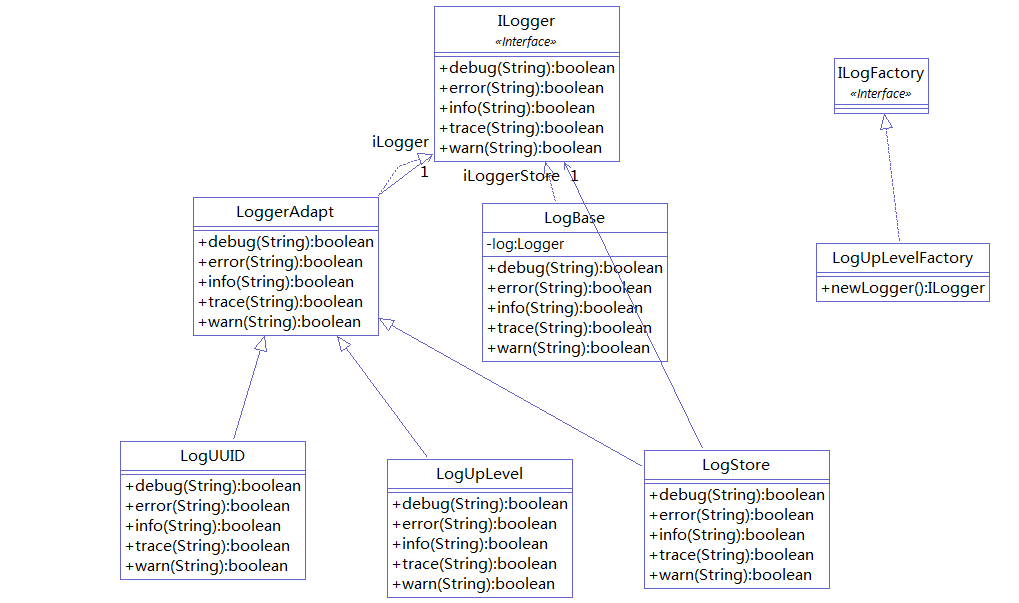
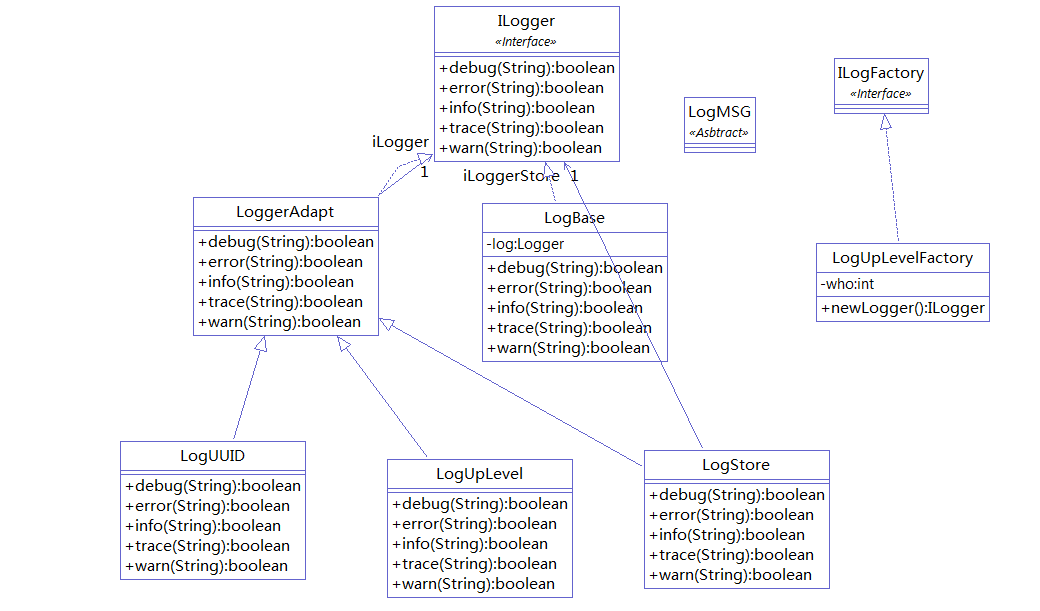
'modify-log'

diff --git a/wulinghui-log/src/test/java/com/wlh/log/Slf4jDemo.java b/wulinghui-log/src/test/java/com/wlh/log/Slf4jDemo.java
@@ -30,18 +30,33 @@ public class Slf4jDemo {
 	        log.error("error");
 	}
     @Test
-	public void runLogUpLevelFactory(){   
-    	LogUpLevelFactory factory = new LogUpLevelFactory();
-    	ILogger newLogger = factory.newLogger();
-    	newLogger.trace("wode {}","wlh"); 
-    	// 提升等级
-    	LogUpLevel.THREAD_LOCAL = new ThreadLocal<>();
-    	LogUUID.THREAD_LOCAL = new ThreadLocal<>();
-    	Map value = new HashMap<>();
-    	value.put(LogUpLevel.FLAG, LogUpLevel.WARN);
-    	value.put(LogUUID.FLAG, LogUpLevel.WARN + "\tuuid\t");
-		LogUpLevel.THREAD_LOCAL.set(value );
-		LogUUID.THREAD_LOCAL.set(value); 
-    	newLogger.trace("wode {}","wlh");  
-	}
+   	public void runLogUpLevelFactory(){   
+       	LogUpLevelFactory factory = new LogUpLevelFactory();
+       	ILogger newLogger = factory.newLogger();
+       	newLogger.trace("wode {}","wlh"); 
+       	// 提升等级
+       	LogUpLevel.THREAD_LOCAL = new ThreadLocal<>();
+       	LogUUID.THREAD_LOCAL = new ThreadLocal<>();
+       	Map value = new HashMap<>();
+       	value.put(LogUpLevel.FLAG, LogUpLevel.WARN);
+       	value.put(LogUUID.FLAG, LogUpLevel.WARN + "\tuuid\t");
+   		LogUpLevel.THREAD_LOCAL.set(value );
+   		LogUUID.THREAD_LOCAL.set(value); 
+       	newLogger.trace("wode {}","wlh");  
+   	}
+    @Test
+   	public void runLogUpLevelFactoryByLogMSG(){   
+       	ILogger newLogger = LogMSG.getLogger();
+       	newLogger.debug(newLogger.getName()); 
+       	newLogger.trace("wode {}","wlh"); 
+       	// 提升等级
+       	LogUpLevel.THREAD_LOCAL = new ThreadLocal<>();
+       	LogUUID.THREAD_LOCAL = new ThreadLocal<>();
+       	Map value = new HashMap<>();
+       	value.put(LogUpLevel.FLAG, LogUpLevel.WARN);
+       	value.put(LogUUID.FLAG, LogUpLevel.WARN + "\tuuid\t");
+   		LogUpLevel.THREAD_LOCAL.set(value );
+   		LogUUID.THREAD_LOCAL.set(value); 
+       	newLogger.trace("wode {}","wlh");  
+   	}
 }	

diff --git a/wulinghui-log/src/main/java/com/wlh/log/LogUpLevelFactory.java b/wulinghui-log/src/main/java/com/wlh/log/LogUpLevelFactory.java
@@ -3,17 +3,35 @@ package com.wlh.log;
 import org.slf4j.Logger;
 import org.slf4j.LoggerFactory;
 
+/**
+ * @author wulinghui
+ * 实现的示例。
+ */
 public class LogUpLevelFactory implements ILogFactory {
+	private final int who;
 	
+	public LogUpLevelFactory() {
+		this(2);
+	}
+	public LogUpLevelFactory(int who) {
+		super();
+		this.who = who;
+	}
 	@Override
 	public ILogger newLogger() {
-		Logger logger = LoggerFactory.getLogger(Thread.currentThread().getStackTrace()[2].getClassName());
+		Logger logger = getLogger();
 		return new LogUUID( new LogUpLevel(new LogBase(logger)) );
 	}
-	public static void main(String[] args) {
-		StackTraceElement[] stackTrace = Thread.currentThread().getStackTrace();
-		for (StackTraceElement string : stackTrace) {
-			System.out.println(string);
-		}
+	protected Logger getLogger() {
+		return LoggerFactory.getLogger(getName());
 	}
+	protected String getName() {
+		return Thread.currentThread().getStackTrace()[who].getClassName();
+	}
+//	public static void main(String[] args) {
+//		StackTraceElement[] stackTrace = Thread.currentThread().getStackTrace();
+//		for (StackTraceElement string : stackTrace) {
+//			System.out.println(string);
+//		}
+//	}
 }

diff --git a/wulinghui-log/src/main/java/com/wlh/log/LogMSG.java b/wulinghui-log/src/main/java/com/wlh/log/LogMSG.java
@@ -1,0 +1,31 @@
+package com.wlh.log;
+
+import java.util.HashMap;
+import java.util.Map;
+
+/**
+ * @author wulinghui
+ * 这个管理工厂，
+ * 其实用户可以自己用个常量类来管理。
+ */
+@Deprecated
+public abstract class LogMSG {
+	//反射修改。
+	static Map factoryMap = new HashMap();
+	
+	
+	public static final String DEFAULT_NAME = "FACTORY-DEFAULT-NAME";
+	static{
+		factoryMap.put(DEFAULT_NAME, new LogUpLevelFactory(6));
+	}
+//	private Logs(){};
+	public static ILogger getLogger(String factoryName) {
+		return  ( (ILogFactory)factoryMap.get(factoryName) ) .newLogger();
+	}
+	public static ILogger getLogger() {
+		return getLogger(DEFAULT_NAME) ;
+	}
+	public static void setFactory(String factoryName,ILogFactory factory) {
+		factoryMap.put(factoryName, factory); 
+	}
+}

diff --git a/wulinghui-log/readme.md b/wulinghui-log/readme.md
@@ -8,4 +8,4 @@
 ### 采用装饰模式-透明的增加功能。
 
 ### 具体类图如下:
-- ![类图](/doc/log-uml.png)
+- ![类图](doc/log-uml.png)
